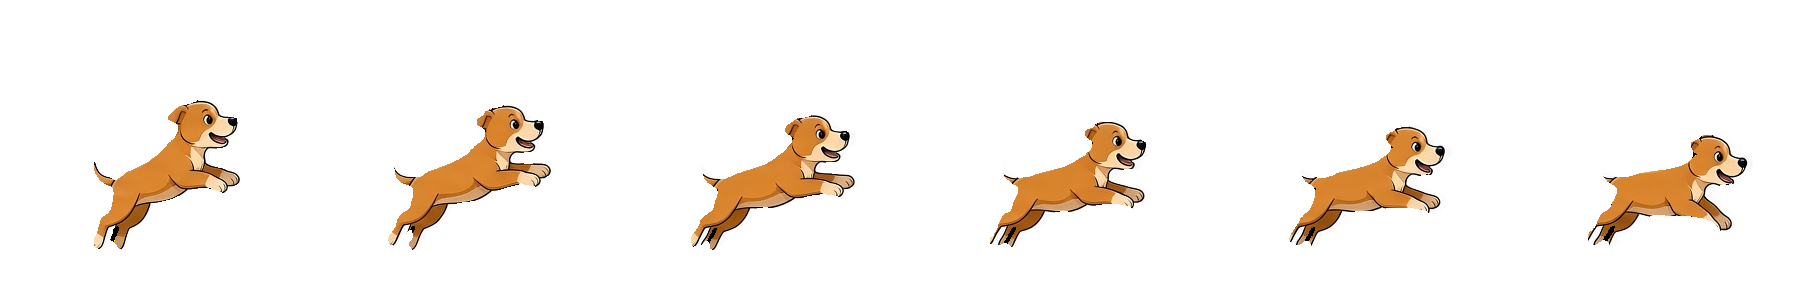
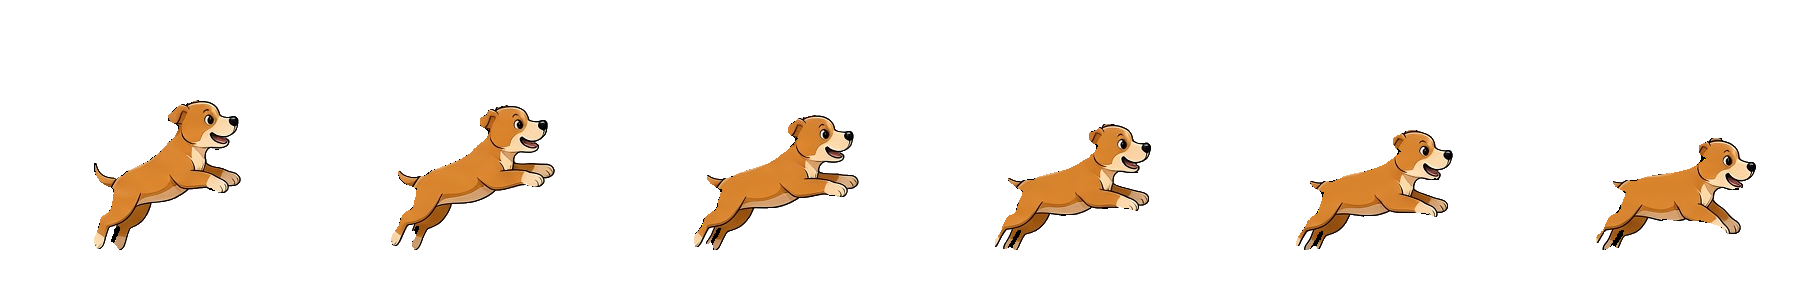
Dog art: strip the generator's white sticker border (edge flood + enclosed white pockets); dog lab test page (dog-lab.html) with speed/step/background controls

diff --git a/design/dog_lab.py b/design/dog_lab.py
@@ -1,0 +1,71 @@
+"""Dog animation lab: one page to test the dog's animations on the site's own background colours.
+
+python design/dog_lab.py  ->  <site preview>/dog-lab.html  (open http://<mac>:8787/dog-lab.html)
+Each animation loops in its own box, with speed and background buttons and a frame-by-frame step mode.
+Uses design/brand/dog-all.png (packed by design/dog_art.py). Edit the ANIMS table to try frame orders.
+"""
+import json
+import os
+import shutil
+from pathlib import Path
+
+BRAND = Path(__file__).resolve().parent / "brand"
+OUT = Path(os.environ.get("SITE_PREVIEW_DIR") or "/Volumes/Extreme/heartbeats-data/site-preview")
+
+# name: (cell indexes in dog-all.png in play order, frames per second, hop height as a fraction of size)
+# cells 0-11 = jump zip frames 1-12, cells 12-17 = run frames (zip 2 frames 3,6,1,4,7,8)
+ANIMS = {
+    "Jump up (sit, rear up, spring, leap, land)": ([7, 7, 6, 6, 9, 3, 10, 11, 11], 8, 0.55),
+    "Jump down": ([11, 3, 10, 11], 7, 0.3),
+    "Run (bounding)": ([12, 13, 14, 15, 16, 17], 14, 0.2),
+    "All jump frames 1-12": (list(range(12)), 2, 0),
+    "All run frames 1-6": (list(range(12, 18)), 2, 0),
+}
+
+PAGE = """<!doctype html><html><head><meta charset="utf-8"><meta name="viewport" content="width=device-width,initial-scale=1">
+<title>Dog lab</title><style>
+body{margin:0;font:15px system-ui,sans-serif;background:#FBF7F3;color:#1F1A17}
+.bar{position:sticky;top:0;z-index:2;background:#fff;padding:10px 14px;display:flex;flex-wrap:wrap;gap:6px;box-shadow:0 2px 8px rgba(0,0,0,.08)}
+button{font:600 14px system-ui;border:1px solid #ddd;background:#fff;border-radius:999px;padding:7px 12px}
+button.on{background:#D9472F;color:#fff;border-color:#D9472F}
+.box{margin:14px;border-radius:18px;padding:12px;background:var(--bg);border:1px solid rgba(0,0,0,.08)}
+.box h3{margin:0 0 4px;font-size:15px;color:var(--fg,#1F1A17)}.box small{color:var(--fg2,#6B625C)}
+.stage{position:relative;height:190px;overflow:hidden}
+.ground{position:absolute;left:0;right:0;bottom:20px;border-top:2px dashed rgba(0,0,0,.15)}
+.dog{position:absolute;left:50%;bottom:20px;width:150px;height:150px;margin-left:-55px;background:url(dog.png) no-repeat;
+background-size:2700px 150px;transform-origin:36.67% 83.33%}
+.info{font:12px ui-monospace,monospace;color:var(--fg2,#6B625C)}
+</style></head><body>
+<div class="bar"><b style="align-self:center">Dog lab</b>
+<button data-sp="0.25">¼ speed</button><button data-sp="0.5">½</button><button data-sp="1" class="on">1×</button>
+<button id="step">Step ▶</button>
+<button data-bg="#FBF7F3" class="on">Cream</button><button data-bg="#FCE6EE">Pink band</button><button data-bg="#ffffff">White card</button><button data-bg="#2a2020">Dark</button></div>
+<div id="boxes"></div>
+<script>const ANIMS=__ANIMS__;let speed=1,stepping=false;
+const boxes=document.getElementById("boxes"),items=[];
+for(const[name,[frames,fps,hop]]of Object.entries(ANIMS)){const b=document.createElement("div");b.className="box";
+b.innerHTML=`<h3>${name}</h3><small>${frames.length} frames · ${fps} fps</small><div class="stage"><div class="ground"></div><div class="dog"></div></div><div class="info"></div>`;
+boxes.appendChild(b);items.push({frames,fps,hop,dog:b.querySelector(".dog"),info:b.querySelector(".info"),i:0,acc:0})}
+const draw=it=>{const c=it.frames[it.i],p=it.i/Math.max(1,it.frames.length-1),lift=it.hop?Math.sin(Math.PI*p)*it.hop*150:0;
+it.dog.style.backgroundPosition=-c*150+"px 0";it.dog.style.translate=`0 ${-lift}px`;it.info.textContent=`frame ${it.i+1}/${it.frames.length} · art cell ${c+1}`};
+let last=performance.now();(function tick(n){const dt=(n-last)/1000;last=n;
+if(!stepping)items.forEach(it=>{it.acc+=dt*speed*it.fps;while(it.acc>=1){it.acc--;it.i=(it.i+1)%it.frames.length}draw(it)});requestAnimationFrame(tick)})(last);
+document.querySelectorAll("[data-sp]").forEach(b=>b.onclick=()=>{stepping=false;speed=+b.dataset.sp;document.querySelectorAll("[data-sp],#step").forEach(x=>x.classList.toggle("on",x===b))});
+document.getElementById("step").onclick=e=>{stepping=true;document.querySelectorAll("[data-sp]").forEach(x=>x.classList.remove("on"));e.target.classList.add("on");
+items.forEach(it=>{it.i=(it.i+1)%it.frames.length;draw(it)})};
+document.querySelectorAll("[data-bg]").forEach(b=>b.onclick=()=>{document.querySelectorAll(".box").forEach(x=>{x.style.setProperty("--bg",b.dataset.bg);const dk=b.dataset.bg==="#2a2020";x.style.setProperty("--fg",dk?"#fff":"#1F1A17");x.style.setProperty("--fg2",dk?"#d8cfc9":"#6B625C")});
+document.querySelectorAll("[data-bg]").forEach(x=>x.classList.toggle("on",x===b))});
+document.querySelectorAll(".box").forEach(x=>x.style.setProperty("--bg","#FBF7F3"));items.forEach(draw);
+</script></body></html>"""
+
+
+def build(out: Path = OUT):
+    out.mkdir(parents=True, exist_ok=True)
+    shutil.copy2(BRAND / "dog-all.png", out / "dog.png")
+    page = out / "dog-lab.html"
+    page.write_text(PAGE.replace("__ANIMS__", json.dumps(ANIMS)))
+    return page
+
+
+if __name__ == "__main__":
+    print(build())

diff --git a/design/dog_art.py b/design/dog_art.py
@@ -19,12 +19,50 @@ CELL = 300          # px per square cell (native frames are ~150-185 px wide)
 ANCHOR = (110, 250)  # where the hind feet land inside each cell (x, y)
 
 
-def clean(im: Image.Image) -> Image.Image:
-    """Trim the 1px halo left by background removal (white/black fringes)."""
+def clean(im: Image.Image, max_depth: int = 14) -> Image.Image:
+    """Make the background fully transparent and strip the generator's white "sticker" border.
+    The border is removed by flooding inward from the transparent area through near-white pixels only,
+    at most max_depth px deep. The dog's dark outline stops the flood, so cream muzzle/paws inside it stay."""
     im = im.convert("RGBA")
-    a = im.getchannel("A").point(lambda v: 255 if v > 40 else 0).filter(ImageFilter.MinFilter(3))
-    im.putalpha(a)
-    return im.crop(a.getbbox())
+    w, h = im.size
+    px = im.load()
+    whitish = lambda c: c[3] > 0 and min(c[:3]) > 180 and max(c[:3]) - min(c[:3]) < 45
+    frontier = [(x, y) for y in range(h) for x in range(w) if px[x, y][3] <= 40]
+    for x, y in frontier:
+        px[x, y] = (0, 0, 0, 0)
+    for _ in range(max_depth):
+        nxt = []
+        for x, y in frontier:
+            for nx, ny in ((x + 1, y), (x - 1, y), (x, y + 1), (x, y - 1)):
+                if 0 <= nx < w and 0 <= ny < h and whitish(px[nx, ny]):
+                    px[nx, ny] = (0, 0, 0, 0)
+                    nxt.append((nx, ny))
+        frontier = nxt
+        if not frontier:
+            break
+    # 2nd pass: enclosed pockets (between legs, under chin) the flood can't reach. Pure, colourless white
+    # patches bigger than an eye highlight are background; the puppy's cream fur is warm (blue well below red).
+    pure = lambda c: c[3] > 0 and min(c[:3]) > 215 and max(c[:3]) - min(c[:3]) < 22
+    seen = set()
+    for y0 in range(h):
+        for x0 in range(w):
+            if (x0, y0) in seen or not pure(px[x0, y0]):
+                continue
+            comp, stack = [], [(x0, y0)]
+            seen.add((x0, y0))
+            while stack:
+                x, y = stack.pop()
+                comp.append((x, y))
+                for nx, ny in ((x + 1, y), (x - 1, y), (x, y + 1), (x, y - 1)):
+                    if 0 <= nx < w and 0 <= ny < h and (nx, ny) not in seen and pure(px[nx, ny]):
+                        seen.add((nx, ny))
+                        stack.append((nx, ny))
+            if len(comp) >= 18:
+                for x, y in comp:
+                    px[x, y] = (0, 0, 0, 0)
+    a = im.getchannel("A").filter(ImageFilter.MinFilter(3)).filter(ImageFilter.MaxFilter(3))  # drop lone specks
+    im.putalpha(Image.eval(a, lambda v: 255 if v > 40 else 0))
+    return im.crop(im.getchannel("A").getbbox())
 
 
 def hind_foot_x(im: Image.Image) -> float:

diff --git a/design/build_site.py b/design/build_site.py
@@ -755,6 +755,9 @@ def build(out: Path = OUT, today: date = None, show_remembered: bool = None, sho
     (tmp / "help.html").write_text(help_page())
     if SHOW_REMEMBERED:
         (tmp / "remembered.html").write_text(remembered_page(gone))
+    import importlib.util as _u  # dog animation test page (not linked from the site)
+    _spec = _u.spec_from_file_location("dog_lab", Path(__file__).resolve().parent / "dog_lab.py")
+    _lab = _u.module_from_spec(_spec); _spec.loader.exec_module(_lab); _lab.build(tmp)
     if out.exists():
         shutil.rmtree(out)
     tmp.rename(out)
